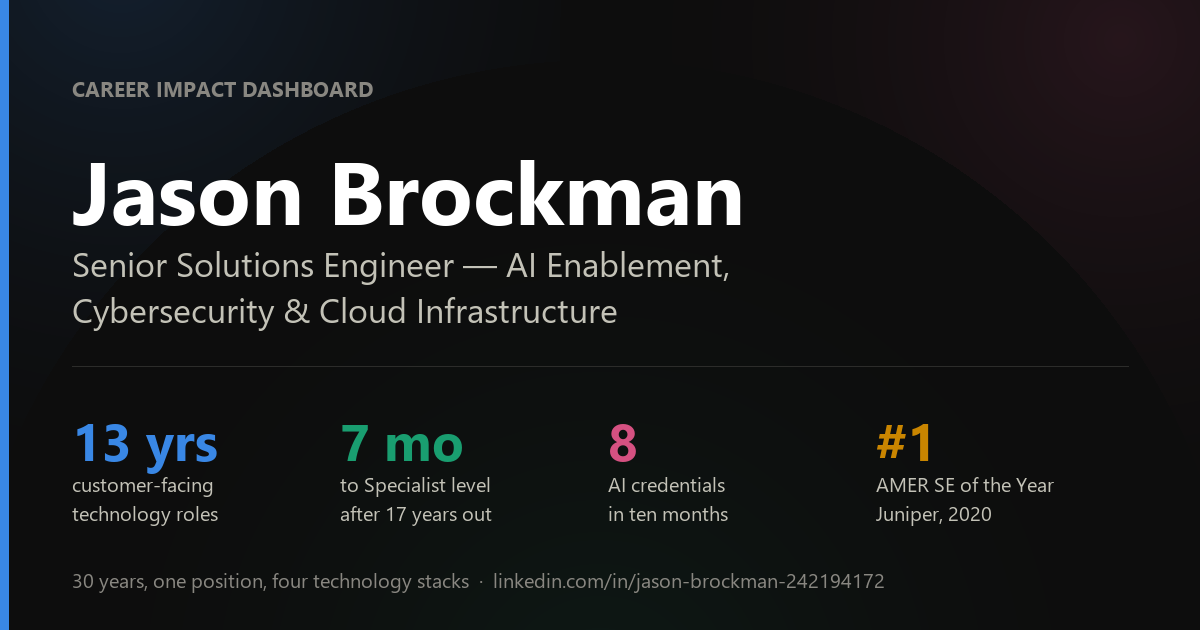
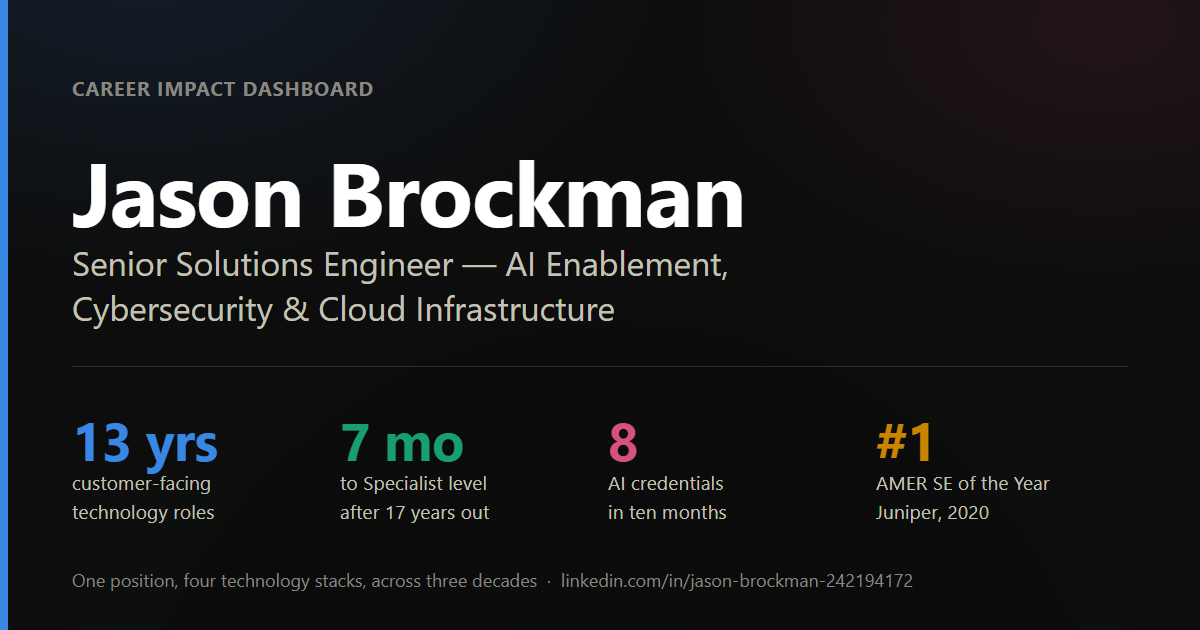
Regenerate social-preview card; fix last span-as-duration line
og-image.png: the footer read "30 years, one position, four technology stacks",
sitting directly beneath the card's own "13 yrs customer-facing technology
roles" stat. Now "One position, four technology stacks, across three decades",
matching the page and the Open Graph text tags.

The original PNG was generated once and only the pixels were kept, so it had to
be rebuilt. It now has a source template in the job-search repo. The rebuild is
matched to the original within 1-3px on every element.

index.html: "the tool he spent thirty years needing" becomes "the tool he
needed in every SE role". Checked at 1280, 1440 and 1920: holds to two lines,
as the original did.

diff --git a/index.html b/index.html
@@ -746,7 +746,7 @@ html.js .rv.in{opacity:1; transform:none}
 
   <div class="ai-shell">
     <span class="status-chip">Portfolio in progress · since Oct 2025</span>
-    <p class="return-claim" style="max-width:38ch">He is not learning AI in the abstract. <em style="font-style:normal;color:var(--s5)">He is building the tool he spent thirty years needing.</em></p>
+    <p class="return-claim" style="max-width:38ch">He is not learning AI in the abstract. <em style="font-style:normal;color:var(--s5)">He is building the tool he needed in every SE role.</em></p>
 
     <div class="chart-frame" style="background:var(--surface-2); margin:30px 0 0">
       <div class="chart-head">
